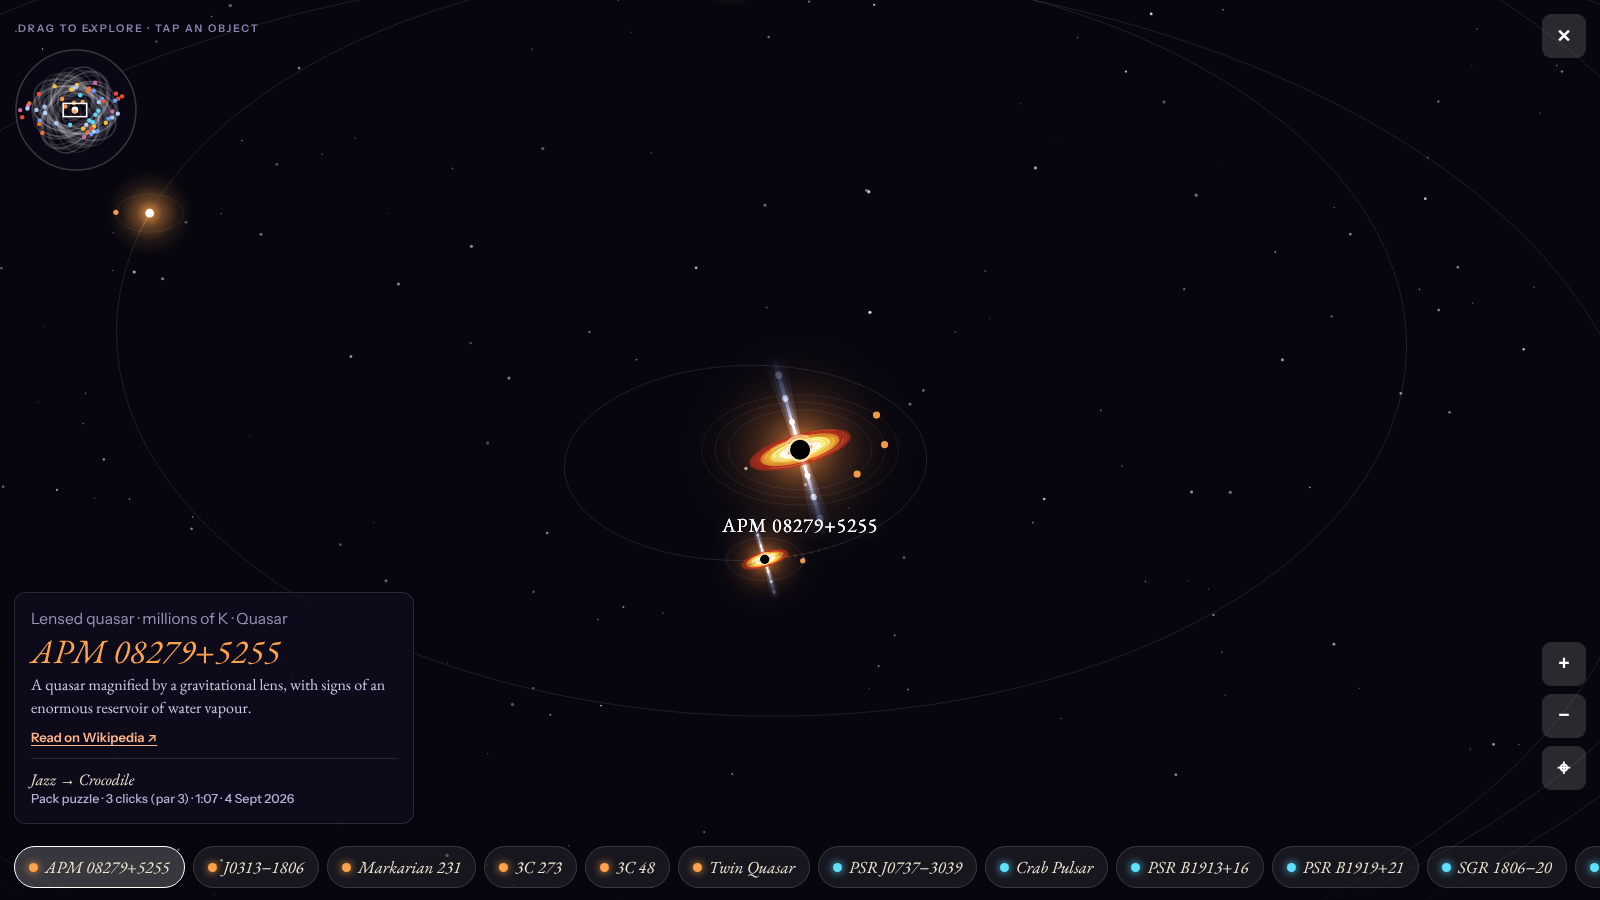
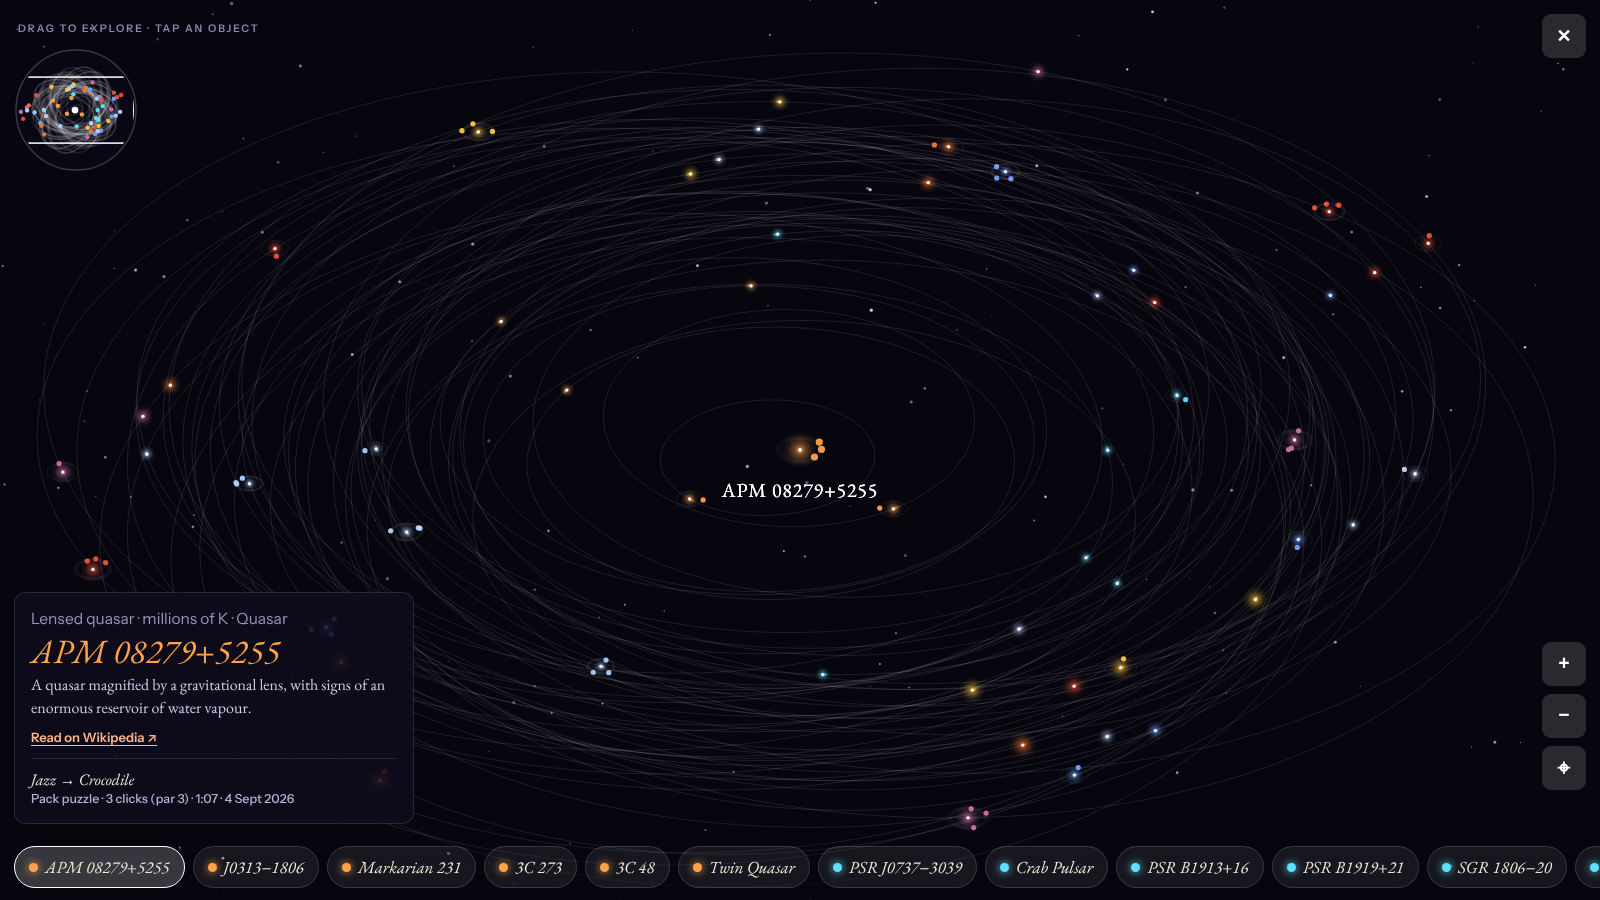
Sky map: much wider innermost orbits, opens fitted to the whole system, readable object sizes when zoomed out (video layout unchanged)
Claude-Session: https://claude.ai/code/session_01GhBa3czP9aL4xQ3uHvcasd

diff --git a/skyobjects.js b/skyobjects.js
@@ -220,14 +220,14 @@
   // a system: Kepler orbits (T^2 ~ a^3, ellipses with the primary at a focus, faster at periapsis), a barycentre wobble, moons for duplicates.
   // The map is far larger than the view: pan with opt.cam = {x, y, z}; positions are world units with the primary at the origin.
   function kepler(M, e) { let E = M; for (let i = 0; i < 5; i++) E = E - (E - e * Math.sin(E) - M) / (1 - e * Math.cos(E)); return E; }
-  const SPREAD = 2.2;   // how far apart the orbits sit: bigger is grander (periods follow Kepler's law, so far orbits turn slowly)
-  function orbits(w, list, spread = SPREAD) {   // list sorted hottest first: [{n, id, idx, count}]; every body after the first orbits the primary
-    return list.slice(1).map((b, i) => { const k = hs(b.n), a = (w * (.3 + 1.1 * Math.log(1 + .9 * i)) + (hash(k) - .5) * w * .06) * spread, T = 9 * Math.pow(a / (w * .44), 1.5); return { ...b, a, T, e: .05 + .3 * hash(k + 3.1), om: hash(k + 7.7) * TAU, M0: hash(k + 1.3) * TAU }; });
+  const SPREAD = 2.2, BASE = .95;   // how far apart the orbits sit: bigger is grander (periods follow Kepler's law, so far orbits turn slowly)
+  function orbits(w, list, spread = SPREAD, base = BASE) {   // list sorted hottest first: [{n, id, idx, count}]; every body after the first orbits the primary
+    return list.slice(1).map((b, i) => { const k = hs(b.n), a = (w * (base + 1.1 * Math.log(1 + .9 * i)) + (hash(k) - .5) * w * .06) * spread, T = 9 * Math.pow(a / (w * .44), 1.5); return { ...b, a, T, e: .05 + .3 * hash(k + 3.1), om: hash(k + 7.7) * TAU, M0: hash(k + 1.3) * TAU }; });
   }
   function system(g, w, h, t, list, opt = {}) {
     g.clearRect(0, 0, w, h); const cam = opt.cam || { x: 0, y: 0, z: 1 }, Z = cam.z, SY = .56, U = Math.min(w, h); if (!list.length) { starfield(g, w, h, t * .3, 60, 9); return []; }
     const ox = ((cam.x * .12) % w + w) % w, oy = ((cam.y * .12) % h + h) % h; g.save(); g.translate(-ox, -oy); for (const [dx, dy] of [[0, 0], [w, 0], [0, h], [w, h]]) { g.save(); g.translate(dx, dy); starfield(g, w, h, t * .3, Math.round(w * h / 9000), 9); g.restore(); } g.restore();
-    const prim = list[0], orb = orbits(760, list, opt.spread), pos = [], toS = (wx, wy) => [(wx - cam.x) * Z + w / 2, (wy - cam.y) * Z + h / 2];
+    const prim = list[0], orb = orbits(760, list, opt.spread, opt.base), pos = [], toS = (wx, wy) => [(wx - cam.x) * Z + w / 2, (wy - cam.y) * Z + h / 2];
     const bornOf = n => opt.ages && opt.ages[n] != null ? clamp(opt.ages[n] / 1.4) : opt.newId === n ? clamp((opt.tNew == null ? 9 : opt.tNew) / 1.4) : 1, TS = opt.ts || 1.5, PH = opt.tau != null ? opt.tau : t * TS, at = (b, off = 0) => { const E = kepler(b.M0 + (PH - off * TS) * TAU / b.T, b.e), x = b.a * (Math.cos(E) - b.e), y = b.a * Math.sqrt(1 - b.e * b.e) * Math.sin(E), c = Math.cos(b.om), s = Math.sin(b.om); return [x * c - y * s, x * s + y * c]; };
     let bx = 0, by = 0, mt = 1; orb.forEach(b => { const q = at(b), bornW = bornOf(b.n), mass = .012 * (b.idx + 1) * sm3(bornW); bx += q[0] * mass; by += q[1] * mass; mt += mass; }); bx = -bx / mt * (opt.wobble == null ? .35 : opt.wobble); by = -by / mt * (opt.wobble == null ? .35 : opt.wobble);
     const items = [], vis = (x, y, m) => x > -m && x < w + m && y > -m && y < h + m;
@@ -236,13 +236,13 @@
       if (foc) { g.fillStyle = 'rgba(255,255,255,.06)'; g.beginPath(); const c0 = toS(bx, by); g.moveTo(c0[0], c0[1]); for (let i = 0; i <= 14; i++) { const qq = at(b, 1.4 - i * .1), pp = toS(bx + qq[0], by + qq[1] * SY); g.lineTo(pp[0], pp[1]); } g.fill(); }
       items.push({ b, x: p[0], y: p[1], z: q[1], wx, wy }); });
     const pp = toS(bx, by); items.push({ b: prim, x: pp[0], y: pp[1], z: 0, wx: bx, wy: by, prim: true }); items.sort((a, b) => a.z - b.z);
-    items.forEach(it => { const b = it.b, base = (FR[b.id] || .2) * U * (it.prim ? .62 : .4) * Z; if (!vis(it.x, it.y, base * 6 + 80)) { pos.push({ n: b.n, id: b.id, x: it.x, y: it.y, wx: it.wx, wy: it.wy, r: 0 }); return; }
+    items.forEach(it => { const b = it.b, zs = opt.sizeExp ? Math.pow(Z, opt.sizeExp) * Math.pow(.7, 1 - opt.sizeExp) : Z, base = (FR[b.id] || .2) * U * (it.prim ? .62 : .4) * zs; if (!vis(it.x, it.y, base * 6 + 80)) { pos.push({ n: b.n, id: b.id, x: it.x, y: it.y, wx: it.wx, wy: it.wy, r: 0 }); return; }
       let r = base; if (it.prim && opt.primScale != null) r *= Math.max(.001, opt.primScale); const born = bornOf(b.n); r *= Math.max(.01, easeBack(born));
       if (!it.prim) for (let i = 1; i < 12; i++) { const q = at(b, i * .07), p = toS(bx + q[0], by + q[1] * SY); g.fillStyle = rgba(OBJ[b.idx].c, .22 * (1 - i / 12)); g.beginPath(); g.arc(p[0], p[1], Math.max(1.5, r * .08 * (1 - i / 12)), 0, TAU); g.fill(); }
       if (born < 1) ring(g, it.x, it.y, base * (.6 + 3 * born), OBJ[b.idx].c, .7 * (1 - born), 3);
       const sc = it.prim ? 1 : .6 + .2 * clamp(it.z / 1500 * .5 + .5, 0, 1); if (r * sc < 15) { halo(g, it.x, it.y, Math.max(8, r * sc * 3.2), OBJ[b.idx].c, .85); g.fillStyle = '#fff'; g.beginPath(); g.arc(it.x, it.y, Math.max(1.6, r * sc * .32), 0, TAU); g.fill(); } else { g.save(); g.translate(it.x, it.y); paint(g, b.id, 0, 0, Math.max(.5, r * sc), t + b.idx); g.restore(); }
       for (let k = 0; k < Math.min(5, b.count - 1); k++) { const rs = r * sc * (1.9 + .4 * k) + 8, th = t * (2.3 - .25 * k) + hash(hs(b.n) + k) * TAU; g.strokeStyle = 'rgba(255,255,255,.07)'; g.lineWidth = 1; g.beginPath(); g.ellipse(it.x, it.y, rs, rs * SY, 0, 0, TAU); g.stroke(); g.fillStyle = rgba(OBJ[b.idx].c, .95); g.beginPath(); g.arc(it.x + Math.cos(th) * rs, it.y + Math.sin(th) * rs * SY, 2.6 + (it.prim ? 1 : 0), 0, TAU); g.fill(); }
-      let lbl = null; if (Z > .45 || opt.focus === b.n) { lbl = { text: b.n, x: it.x, y: it.y + r * sc * 1.25 + 40, size: clamp(24 * Math.sqrt(Z), 20, 36), color: opt.focus === b.n ? '#ffffff' : rgba(OBJ[b.idx].c, .92), focus: opt.focus === b.n }; if (!opt.noLabels) drawLabel(g, lbl); }
+      let lbl = null; if (Z > .45 || list.length <= 8 || opt.focus === b.n) { lbl = { text: b.n, x: it.x, y: it.y + r * sc * 1.25 + 40, size: clamp(24 * Math.sqrt(Z), 20, 36), color: opt.focus === b.n ? '#ffffff' : rgba(OBJ[b.idx].c, .92), focus: opt.focus === b.n }; if (!opt.noLabels) drawLabel(g, lbl); }
       pos.push({ n: b.n, id: b.id, x: it.x, y: it.y, wx: it.wx, wy: it.wy, r: Math.max(r * sc, 18), lbl }); });
     // minimap: the whole system with the current view as a box
     const big = Math.max(380, ...orb.map(b => b.a * (1 + b.e))), R = 58, mx = 18 + R, my = opt.mini === 'tl' ? 52 + R : h - 18 - R, k = R / big; g.save(); g.fillStyle = 'rgba(10,8,22,.78)'; g.strokeStyle = 'rgba(255,255,255,.2)'; g.lineWidth = 1.5; g.beginPath(); g.arc(mx, my, R + 2, 0, TAU); g.fill(); g.stroke(); g.beginPath(); g.arc(mx, my, R, 0, TAU); g.clip();
@@ -250,5 +250,5 @@
     g.strokeStyle = '#fff'; g.lineWidth = 1.5; g.strokeRect(mx + (cam.x - w / 2 / Z) * k, my + (cam.y - h / 2 / Z) * k, w / Z * k, h / Z * k); g.restore();
     return pos;
   }
-  window.SKY = { SPREAD, OBJ, FR, POOL, landFx, drawLabel, draw: (g, id, x, y, r, t = 0) => paint(g, id, x, y, r, t), starfield, fade, land, system, orbits, byId: id => OBJ.find(o => o.id === id) };
+  window.SKY = { SPREAD, BASE, OBJ, FR, POOL, landFx, drawLabel, draw: (g, id, x, y, r, t = 0) => paint(g, id, x, y, r, t), starfield, fade, land, system, orbits, byId: id => OBJ.find(o => o.id === id) };
 })();

diff --git a/index.html b/index.html
@@ -519,9 +519,11 @@ function skyList() {   // every named object you own, hottest first
 }
 
 // the pannable system map: drag to pan, wheel / buttons to zoom, tap a body (or call pick) to fly to it and follow it. Used inline and full screen.
+const clamp2 = (v, lo, hi) => Math.min(hi, Math.max(lo, v));
 function sysMap(cv, L, o) {
   const g = cv.getContext('2d'), calm = document.documentElement.dataset.calm === '1' || matchMedia('(prefers-reduced-motion: reduce)').matches, born = performance.now(), t0 = born;
-  const cam = { x: 0, y: 0, z: o.z || .7, tz: o.z || .7, follow: o.follow }; let pos = [], raf = 0, drag = null, sel = o.focus, dead = false;
+  const orb0 = SKY.orbits(760, L), R0 = Math.max(1, ...orb0.map(b => b.a * (1 + b.e))), Zd = o.z || .7, Z0 = L.length > 1 ? clamp2(Math.min(cv.width * .4 / R0, cv.height * .4 / (R0 * .56)), .07, Zd) : Zd;   // open with the whole system in view
+  const cam = { x: 0, y: 0, z: Z0, tz: Z0, follow: o.follow }; let pos = [], raf = 0, drag = null, sel = o.focus, dead = false;
   const frame = now => { if (dead || !cv.isConnected) return; const t = calm ? 40 : 40 + (now - t0) / 1000; pos = SKY.system(g, cv.width, cv.height, t, L, { cam, focus: sel, newId: o.newId, tNew: (now - born) / 1000, mini: o.mini });
     cam.z += (cam.tz - cam.z) * (calm ? 1 : .09); if (cam.follow) { const p = pos.find(q => q.n === cam.follow); if (p) { cam.x += (p.wx - cam.x) * (calm ? 1 : .1); cam.y += (p.wy - cam.y) * (calm ? 1 : .1); } } raf = requestAnimationFrame(frame); };
   if (L.length) frame(t0);
@@ -530,7 +532,7 @@ function sysMap(cv, L, o) {
   cv.onpointermove = e => { if (!drag) return; const r = cv.getBoundingClientRect(), dx = (e.clientX - drag.x) / r.width * cv.width, dy = (e.clientY - drag.y) / r.height * cv.height; if (Math.abs(dx) + Math.abs(dy) > 5) { drag.moved = true; cam.follow = null; } if (drag.moved) { cam.x = drag.cx - dx / cam.z; cam.y = drag.cy - dy / cam.z; } };
   cv.onpointerup = e => { const d = drag; drag = null; if (!d || d.moved) return; const r = cv.getBoundingClientRect(), x = (e.clientX - r.left) / r.width * cv.width, y = (e.clientY - r.top) / r.height * cv.height, k = cv.width / 760, hit = pos.slice().reverse().find(p => p.r && Math.hypot(p.x - x, p.y - y) < Math.max(p.r, 34 * k)); if (hit) pick(hit.n); };
   cv.addEventListener('wheel', e => { e.preventDefault(); cam.tz = Math.max(.07, Math.min(2.2, cam.tz * Math.exp(-e.deltaY * .0012))); }, { passive: false });
-  return { pick, stop: () => { dead = true; cancelAnimationFrame(raf); }, zoom: f => { cam.tz = Math.max(.07, Math.min(2.2, cam.tz * f)); }, home: n => { pick(n); cam.tz = .7; }, setSel: n => { sel = n; } };
+  return { pick, stop: () => { dead = true; cancelAnimationFrame(raf); }, zoom: f => { cam.tz = Math.max(.07, Math.min(2.2, cam.tz * f)); }, home: n => { pick(n); cam.tz = Z0; }, setSel: n => { sel = n; } };
 }
 function openSkyFull(opt = {}) {   // the system on the whole screen, with a floating card for the object you tap
   closeModal(); const L = skyList(), cat = P.sky.cat; let host = document.createElement('div'); host.id = 'skyfull';

diff --git a/tools/video/sky.html b/tools/video/sky.html
@@ -97,10 +97,10 @@ const tsOf = z => 1.5 * clamp(Math.pow(.42 / z, 1.6), .07, 1); let TAU_ARR = [];
 function buildTau() { const dt = 1 / 60, n = Math.ceil((window.DURATION + 2) / dt); B1 = (SBb[40] - SBb[10]) / 30; TAU_ARR = new Float64Array(n + 1); for (let i = 0; i < n; i++) TAU_ARR[i + 1] = TAU_ARR[i] + dt * tsOf(zFor(beatAt(i * dt))); }
 const tauAt = t => { const x = clamp(t, 0, window.DURATION + 1.9) * 60, i = Math.floor(x); return lerp(TAU_ARR[i], TAU_ARR[Math.min(i + 1, TAU_ARR.length - 1)], x - i); };
 const ageMap = (list, t) => { const m = {}; list.forEach((q, i) => { if (i > 0) m[q.n] = t - bt(SPAWN + i / 1.7); }); return m; };
-function sysDraw(ctx, t, list, cam, focus, primScale, noLabels) { ctx.clearRect(0, 0, W, H); return SKY.system(ctx, W, H, t + 40, list, { cam, focus, primScale, tau: tauAt(t) + 40 * 1.5, ts: tsOf(cam.z), noLabels, wobble: 0, ages: ageMap(list, t) }); }
+function sysDraw(ctx, t, list, cam, focus, primScale, noLabels) { ctx.clearRect(0, 0, W, H); return SKY.system(ctx, W, H, t + 40, list, { cam, focus, primScale, tau: tauAt(t) + 40 * 1.5, ts: tsOf(cam.z), noLabels, wobble: 0, ages: ageMap(list, t), base: .3 }); }
 function sysScene(b, t) {
   const RATE = 1.7, n = clamp(1 + Math.floor((b - SPAWN) * RATE), 1, VL.length), list = b < SPAWN ? VL.slice(0, 1) : VL.slice(0, n);
-  const pos = SKY.system(pg, 64, 64, t + 40, list, { cam: { x: 0, y: 0, z: 1 }, tau: tauAt(t) + 40 * 1.5, wobble: 0, noLabels: true }), cam = camFor(b, pos), q = t - bt(QB), tl = q * 1.2, grow = tl < .4 ? 0 : Math.min(1.15, E.back(clamp((tl - .4) / .85)));
+  const pos = SKY.system(pg, 64, 64, t + 40, list, { cam: { x: 0, y: 0, z: 1 }, tau: tauAt(t) + 40 * 1.5, wobble: 0, noLabels: true, base: .3 }), cam = camFor(b, pos), q = t - bt(QB), tl = q * 1.2, grow = tl < .4 ? 0 : Math.min(1.15, E.back(clamp((tl - .4) / .85)));
   const fo = FOC.find(f => b >= f.a && b < f.z), focus = fo ? fo.n : null;
   g.fillStyle = DARK; g.fillRect(0, 0, W, H); { const k = clamp(.9 - (b - DROP) / 22 * .7, .2, .9), gr = g.createRadialGradient(W / 2, H * .44, 60, W / 2, H * .44, 1250); gr.addColorStop(0, `rgba(255,120,60,${.30 * k})`); gr.addColorStop(1, 'rgba(0,0,0,0)'); g.fillStyle = gr; g.fillRect(0, 0, W, H); }
   // three samples a few milliseconds apart so motion is smooth; labels are drawn once afterwards so they stay sharp
